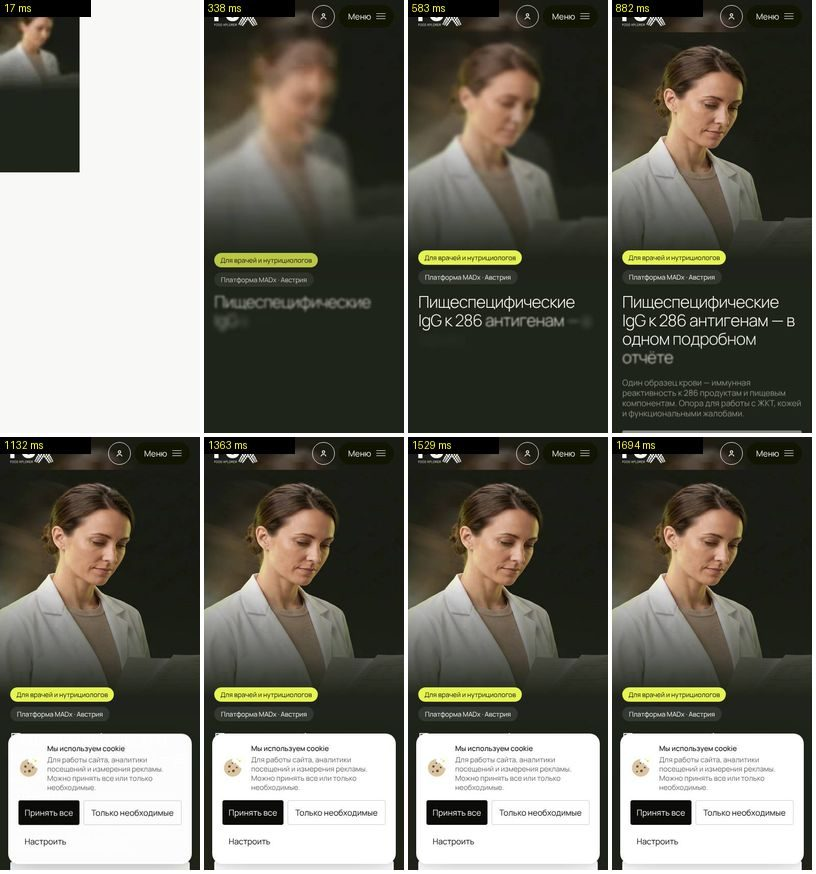
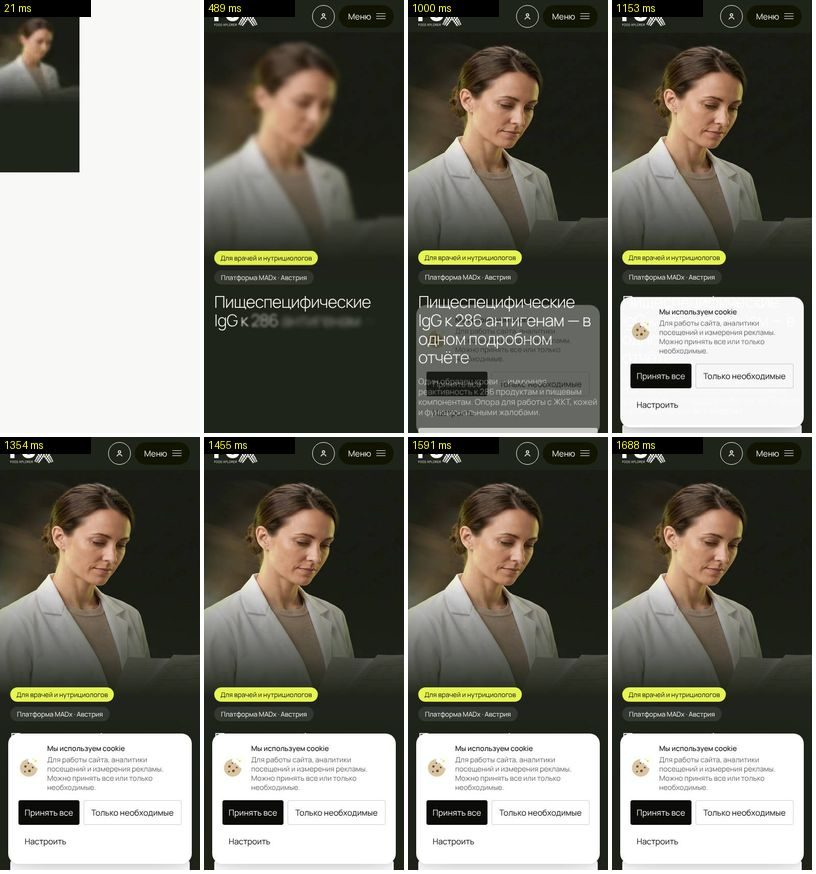
specialists: phone hero starts below the 64px header bar (frame 1317:6392)
- the pre-blurred backdrop lies under the photo (top 64px), not under the header
- the photo's entrance cannot grow or blur into the bar: scale from the bottom edge with a
  top clip that shrinks with the scale (27.2px at 1.06 → 0)
- when the header is the light bar (not .on-dark), the 64px strip behind it is the page
  colour instead of the dark hero

Claude-Session: https://claude.ai/code/session_01WFoYkmxc1pUW3eVLZcZaYY

diff --git a/apps/site/app/specialists/motion.css b/apps/site/app/specialists/motion.css
@@ -25,15 +25,30 @@
    from its bottom edge and the blur is clipped at that edge (filter is applied before clip-path): a centre-origin
    scale pushed a bright 5–14px strip of the white coat below the shade, and the blur bled it further down. */
 @media (max-width: 1100px) {
-  [data-s="p01"].dark-hero > img.bg:not(.sp-hero-blur),
-  [data-s="p01"].dark-hero > img.sp-hero-m { transform-origin: 50% 100%; clip-path: inset(-64px -64px 0 -64px); }
+  [data-s="p01"].dark-hero > img.bg:not(.sp-hero-blur) { transform-origin: 50% 100%; clip-path: inset(-64px -64px 0 -64px); }
+}
+/* Phone: the photo starts below the 64px header bar and must not grow or blur into it either — the top clip shrinks
+   with the scale (480·(1 − 1/s): 27px at 1.06, 0 at 1), so the visible top edge stays on the bar's lower edge. */
+@media (max-width: 767px) {
+  [data-s="p01"].dark-hero > img.sp-hero-m { transform-origin: 50% 100%; }
+  [data-s="p01"].dark-hero > img.sp-hero-m:not(.is-wait) { animation-name: sp-photo-in-m; }
+}
+@keyframes sp-photo-in-m {
+  from { opacity: 0; transform: scale(1.06); filter: blur(16px); clip-path: inset(27.2px -64px 0 -64px); }
+  to { opacity: 1; transform: scale(1); filter: blur(0); clip-path: inset(0 -64px 0 -64px); }
 }
 @media (max-width: 767px) {
   /* phone: the blurred copy is its own 480px layer under the in-flow photo (it was a section background-image,
      which anything reading the section box took for a backdrop of the whole hero, title included) */
   body [data-s="p01"].dark-hero { background: #1f241a; isolation: isolate; }
   body [data-s="p01"].dark-hero > img.sp-hero-blur { display: none; }
-  body [data-s="p01"].dark-hero > img.sp-hero-m-blur { display: block; position: absolute; inset: 0 0 auto; width: 100%; height: 480px; object-fit: cover; z-index: -1; }
+  /* it lies exactly under the photo, which starts below the 64px header bar (section padding-top 64px): at inset 0
+     it sat 64px higher, under the bar */
+  body [data-s="p01"].dark-hero > img.sp-hero-m-blur { display: block; position: absolute; inset: 64px 0 auto; width: 100%; height: 480px; object-fit: cover; z-index: -1; }
+  /* Frame «Мобайл · Специалистам · 390» (1317:6392): a light 64px header bar, the hero photo starts below it. When the
+     header is the light bar (not the transparent .on-dark state) the strip behind it is the page colour, so the
+     dark hero does not tint the bar. */
+  body:has(.site-header:not(.on-dark)) [data-s="p01"].dark-hero { background: linear-gradient(#f8f9f6 0 64px, #1f241a 64px); }
 }
 /* P-anim: entrances 600 мс power2.out = cubic-bezier(.33,1,.68,1) (were power1.out (.25,.46,.45,.94) / --ease). */
 [data-s="p01"] .sp-pills { animation: sp-rise 600ms cubic-bezier(0.33, 1, 0.68, 1) 40ms backwards; }
